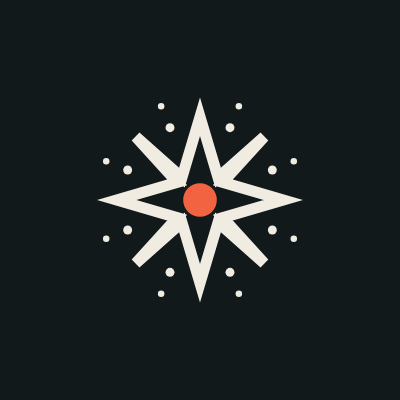
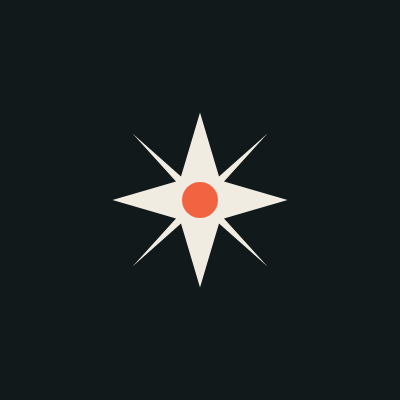
Make the mark the solid star
Veer's pick: the chisel star filled in, with one persimmon dot at its centre.
Replaces Star in the noise. Lockup set to his sketch: star 0.96em, gap 0.22em.

diff --git a/scripts/build_brand_assets.py b/scripts/build_brand_assets.py
@@ -1,8 +1,7 @@
 """Build Distill's logo and profile pictures as SVG (public/assets/brand/).
 
-The mark is "Star in the noise" (Veer, 27 Oct): the Figma eight-point chisel star
-(apps/web/components/d-star.tsx) with specks of noise outside it and one persimmon dot,
-the choice, at its centre.
+The mark is the solid star (Veer, 27 Oct): the Figma eight-point chisel star
+(apps/web/components/d-star.tsx) filled in, with one persimmon dot, the choice, at its centre.
 The wordmark is Newsreader, outlined to paths so the files need no font.
 Run: python3 scripts/build_brand_assets.py   (PNG exports: scripts/export_brand_pngs.sh)
 """
@@ -22,22 +21,12 @@ STAR = ("M20 2.5l3.8 12.8 9.7-8.6-8.7 9.6 12.7 3.7-12.7 3.7 8.7 9.6-9.7-8.6L20 3
         "l-3.8-12.8-9.7 8.6 8.7-9.6L2.5 20l12.7-3.7-8.7-9.6 9.7 8.6L20 2.5z")
 
 
-def star(x, y, size, color, core=None, stroke=1.35):
-    """Star in the noise, in a size x size box at (x, y). stroke is in the 40-unit box.
-
-    The chisel star, a little smaller, with loose specks of noise left outside it
-    and one dot inside: the noise distilled down to one choice.
-    """
-    import math
-    s, w = size / 40, stroke / 1.35
-    specks = ""
-    for a in range(0, 360, 45):
-        for r, rad in ((13.5, 0.55), (17.5, 0.4)):
-            t = math.radians(a + 22.5)
-            specks += f'<circle cx="{20 + r * math.sin(t):.2f}" cy="{20 - r * math.cos(t):.2f}" r="{rad * w:.2f}" fill="{color}"/>'
+def star(x, y, size, color, core=None):
+    """The solid star in a size x size box at (x, y): one filled shape, one dot."""
+    s = size / 40
     return (f'<g transform="translate({x:.2f} {y:.2f}) scale({s:.4f})">'
-            f'<path d="{STAR}" transform="translate(3.6 3.6) scale(0.82)" fill="none" stroke="{color}" stroke-width="{stroke / 0.82:.2f}"/>'
-            f'{specks}<circle cx="20" cy="20" r="2.9" fill="{core or color}"/></g>')
+            f'<path d="{STAR}" fill="{color}"/>'
+            f'<circle cx="20" cy="20" r="3.6" fill="{core or color}"/></g>')
 
 
 def wordmark_font():
@@ -99,34 +88,34 @@ def svg(w, h, body, label):
 
 
 def lockup(font, color, core=None):
-    # Proportions from the site's nav: 25px star, 11px gap, 28px wordmark.
-    size, mark, gap, pad = 112, 100, 44, 8
+    # Proportions from Veer's pick (27 Oct): star 0.96em, gap 0.22em, centred 0.26em above the baseline.
+    size, pad = 112, 8
+    mark, gap = 0.96 * size, 0.22 * size
     d, tw, cap = text_path(font, "Distill", size)
-    h = mark + pad * 2
-    baseline = pad + mark / 2 + cap / 2  # star centred on the capitals
+    top = pad
+    baseline = top + mark / 2 + 0.26 * size
     x0 = pad + mark + gap
-    body = (star(pad, pad, mark, color, core) +
+    body = (star(pad, top, mark, color, core) +
             f'\n<path transform="translate({x0:.2f} {baseline:.2f})" d="{d}" fill="{color}"/>')
-    return svg(round(x0 + tw + pad), h, body, "Distill")
+    return svg(round(x0 + tw + pad), round(top + mark + pad), body, "Distill")
 
 
-def mark_only(color, core=None, stroke=1.35):
-    return svg(120, 120, star(10, 10, 100, color, core, stroke), "Distill")
+def mark_only(color, core=None):
+    return svg(120, 120, star(10, 10, 100, color, core), "Distill")
 
 
 # Profile pictures: a full-bleed square, star kept inside the circle crop.
-# A heavier stroke so the star holds at 40px in a feed.
 PROFILES = {
     "a-ink":       dict(bg=INK,       star=GROUND, core=PERSIMMON, label="Ink"),
     "b-ground":    dict(bg=GROUND,    star=INK,    core=PERSIMMON, label="Ground"),
-    "c-persimmon": dict(bg=PERSIMMON, star=INK,    core=INK,       label="Persimmon"),
+    "c-persimmon": dict(bg=PERSIMMON, star=INK,    core=PERSIMMON, label="Persimmon"),
 }
 
 
-def profile(p, size=1080, mark_ratio=0.58, stroke=1.9):
+def profile(p, size=1080, mark_ratio=0.5):
     m = size * mark_ratio
     o = (size - m) / 2
-    body = f'<rect width="{size}" height="{size}" fill="{p["bg"]}"/>\n' + star(o, o, m, p["star"], p["core"], stroke)
+    body = f'<rect width="{size}" height="{size}" fill="{p["bg"]}"/>\n' + star(o, o, m, p["star"], p["core"])
     return svg(size, size, body, "Distill")
 
 

diff --git a/public/assets/brand/README.md b/public/assets/brand/README.md
@@ -9,7 +9,6 @@ Preview all of it: `preview.html` (or `preview.png`).
 | `profile-*.svg`, `png/profile-*-400.png`, `-1080.png` | Social profile pictures (Instagram, X, TikTok, LinkedIn). Square and full-bleed; the star sits inside the circle crop. Upload the 1080 PNG. |
 | `png/distill-logo-*.png`, `png/distill-mark-*.png` | Transparent PNGs at 4x. |
 
-- The mark is **Star in the noise**: the Figma eight-point chisel star (same path as `apps/web/components/d-star.tsx`), a little smaller, with specks of noise left outside it and one persimmon dot inside: the noise distilled down to one choice. Profile pictures use a heavier stroke so it holds at 40px.
-- The idea behind it (16 dots, then 8, then 4, then one) suits motion: a loader or a reveal, not the logo.
+- The mark is the **solid star**: the Figma eight-point chisel star (same path as `apps/web/components/d-star.tsx`) filled in, with one persimmon dot at its centre, the choice.
 - The wordmark is Newsreader 500, outlined to paths, so the files need no font.
 - Rebuild: `python3 scripts/build_brand_assets.py`, then `scripts/export_brand_pngs.sh` (needs Google Chrome).
